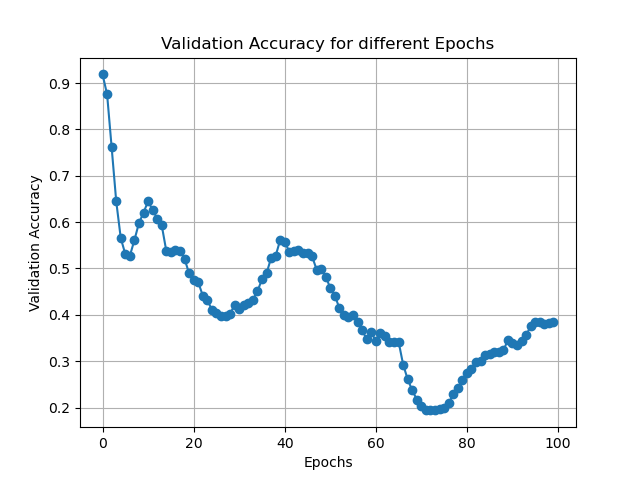
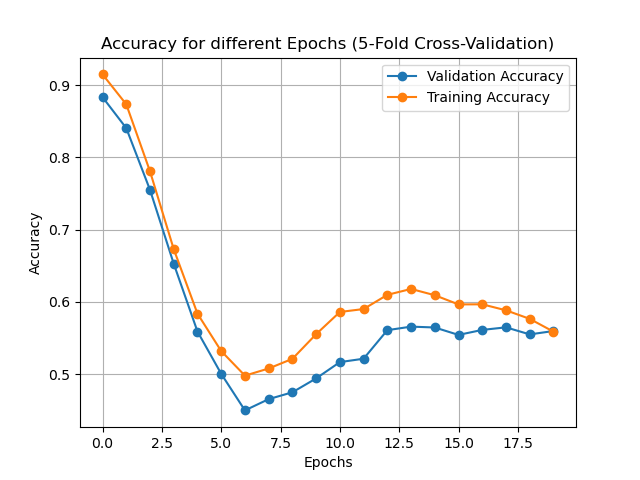
added reward function and plot

diff --git a/src/irl_rl_pkg/src/irl_node.py b/src/irl_rl_pkg/src/irl_node.py
@@ -10,6 +10,11 @@ from sklearn.model_selection import train_test_split
 import matplotlib.pyplot as plt
 import time
 
+from tensorflow.keras.models import Sequential
+from tensorflow.keras.layers import Dense
+from tensorflow.keras.callbacks import EarlyStopping
+from sklearn.model_selection import KFold
+
 # Start time
 start_time = time.time()
 
@@ -78,50 +83,60 @@ def maxent_irl_objective_ANN(reward_model, expert_trajectories, all_states):
     return -log_likelihood
 
 def ANN():
-    reward_model = create_reward_network(x_train.shape[1])
-    reward_model.compile(optimizer='adam', loss='categorical_crossentropy', metrics=['accuracy'])
+    kf = KFold(n_splits=5)
+    epochs = 20
+    overall_accuracy_history = []
+    overall_accuracy_train_history = []
+    #x_train, x_test, y_train, y_test = train_test_split(X_normalized, y_one_hot, test_size=0.10, shuffle=True)
 
-    # Early stopping callback
-    early_stop = EarlyStopping(monitor='loss', patience=2)
+    for fold, (train_index, val_index) in enumerate(kf.split(X_normalized)):
+        rospy.loginfo(f'Fold {fold+1}')
+        x_train_fold, x_val_fold = X_normalized[train_index], X_normalized[val_index]
+        y_train_fold, y_val_fold = y_one_hot[train_index], y_one_hot[val_index]
 
-    # Train the model
-    hist = reward_model.fit(x_train, y_train, epochs=20, validation_split=0.20, batch_size=128, callbacks=[early_stop])
+        reward_model = create_reward_network(X_normalized.shape[1])
+        reward_model.compile(optimizer='adam', loss='categorical_crossentropy', metrics=['accuracy'])
 
-    # Example expert trajectories and all states (for demonstration purposes)
-    # Replace these with your actual data
-    expert_trajectories = [x_train]  # Assuming entire x_train is considered as expert trajectories
-    all_states = x_train
+        early_stop = EarlyStopping(monitor='loss', patience=2)
+        reward_model.fit(x_train_fold, y_train_fold, epochs=20, validation_split=0.20, batch_size=128, callbacks=[early_stop])
 
-   # Training loop
-    epochs = 100
-    accuracy_history = [] 
+        expert_trajectories = [x_train_fold]  # Replace with your actual expert trajectories
+        all_states = x_train_fold
 
-    for epoch in range(epochs):
-        with tf.GradientTape() as tape:
-            # Compute the MaxEnt IRL objective
-            log_likelihood = maxent_irl_objective_ANN(reward_model, expert_trajectories, all_states)
+        accuracy_history = []
+        accuracy_history_train = []
 
-        # Compute gradients
-        gradients = tape.gradient(log_likelihood, reward_model.trainable_variables)
+        for epoch in range(epochs):
+            with tf.GradientTape() as tape:
+                log_likelihood = maxent_irl_objective_ANN(reward_model, expert_trajectories, all_states)
 
-        # Update the weights
-        reward_model.optimizer.apply_gradients(zip(gradients, reward_model.trainable_variables))
+            gradients = tape.gradient(log_likelihood, reward_model.trainable_variables)
+            reward_model.optimizer.apply_gradients(zip(gradients, reward_model.trainable_variables))
 
-        if epoch % 10 == 0:
-            rospy.loginfo(f'Epoch {epoch}, Log Likelihood: {-log_likelihood}')
+            if epoch % 10 == 0:
+                rospy.loginfo(f'Epoch {epoch}, Log Likelihood: {-log_likelihood}')
 
-        # Evaluate validation accuracy for each epoch
-        validation_rewards = reward_model.predict(x_test)
-        validation_accuracy = np.mean(np.argmax(validation_rewards, axis=1) == np.argmax(y_test, axis=1))
-        accuracy_history.append(validation_accuracy)  # Store accuracy for this epoch
+            validation_rewards = reward_model.predict(x_val_fold)
+            validation_accuracy = np.mean(np.argmax(validation_rewards, axis=1) == np.argmax(y_val_fold, axis=1))
+            accuracy_history.append(validation_accuracy)
+            train_rewards = reward_model.predict(x_train_fold)
+            train_accuracy = np.mean(np.argmax(train_rewards, axis=1) == np.argmax(y_train_fold, axis=1))
+            accuracy_history_train.append(train_accuracy)
+            rospy.loginfo(f'Epoch {epoch}, Train  Accuracy: {train_accuracy}')
+            rospy.loginfo(f'Epoch {epoch}, Validation Accuracy: {validation_accuracy}')
 
-        rospy.loginfo(f'Epoch {epoch}, Validation Accuracy: {validation_accuracy}')
-
-    # Plot accuracy over epochs
-    plt.plot(range(epochs), accuracy_history, marker='o')
-    plt.xlabel('Epochs')    
-    plt.ylabel('Validation Accuracy')
-    plt.title('Validation Accuracy for different Epochs')
+        overall_accuracy_history.append(accuracy_history)
+        overall_accuracy_train_history.append(accuracy_history_train)
+    # Compute the mean accuracy over all folds for each epoch
+    mean_accuracy_history = np.mean(overall_accuracy_history, axis=0)
+    mean_train_accuracy_history =  np.mean(overall_accuracy_train_history, axis=0)
+    # Plotting
+    plt.plot(range(epochs), mean_accuracy_history, marker='o', label='Validation Accuracy')
+    plt.plot(range(epochs), mean_train_accuracy_history, marker = 'o', label = 'Training Accuracy')
+    plt.xlabel('Epochs')
+    plt.ylabel('Accuracy')
+    plt.title('Accuracy for different Epochs (5-Fold Cross-Validation)')
+    plt.legend()
     plt.grid(True)
     plt.savefig(f'plot_accuracy_ANN.png')
     plt.show()
@@ -175,9 +190,8 @@ if __name__ == '__main__':
     import tensorflow as tf
     from tensorflow import keras
 
-    x_train, x_test, y_train, y_test = train_test_split(X_normalized, y_one_hot, test_size=0.10, shuffle=True)
-
     ANN()
     
 
 
+    
